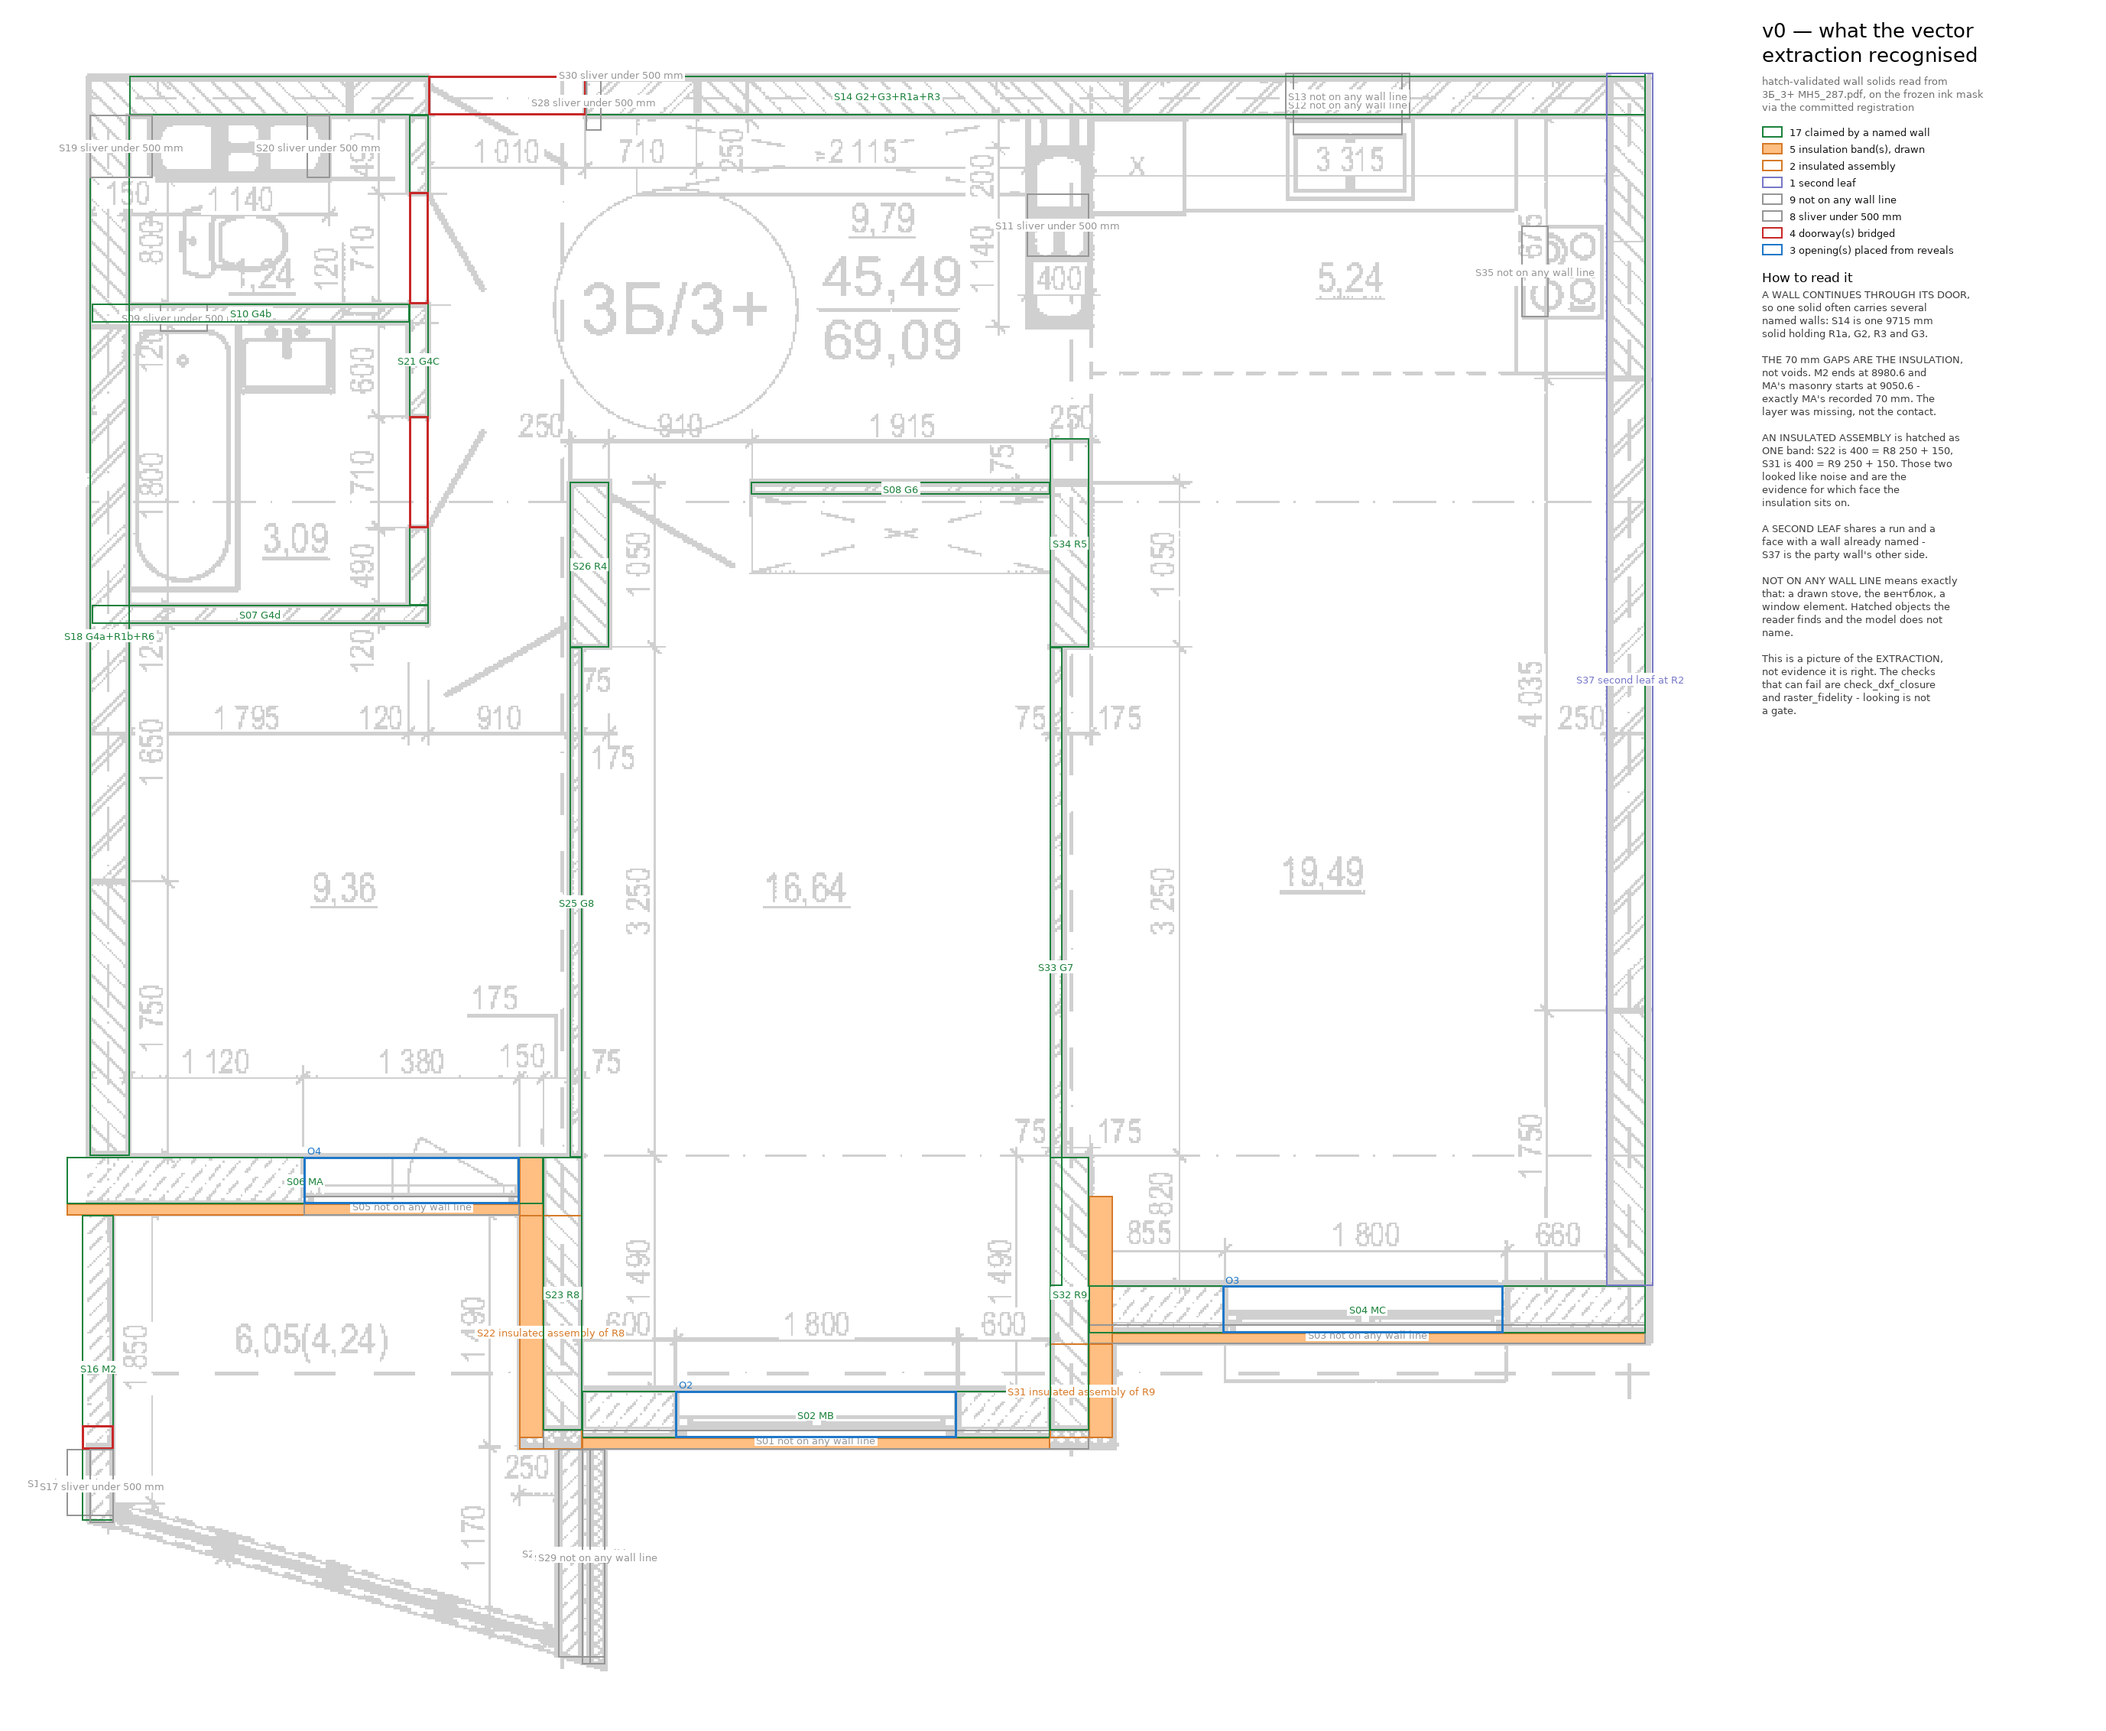
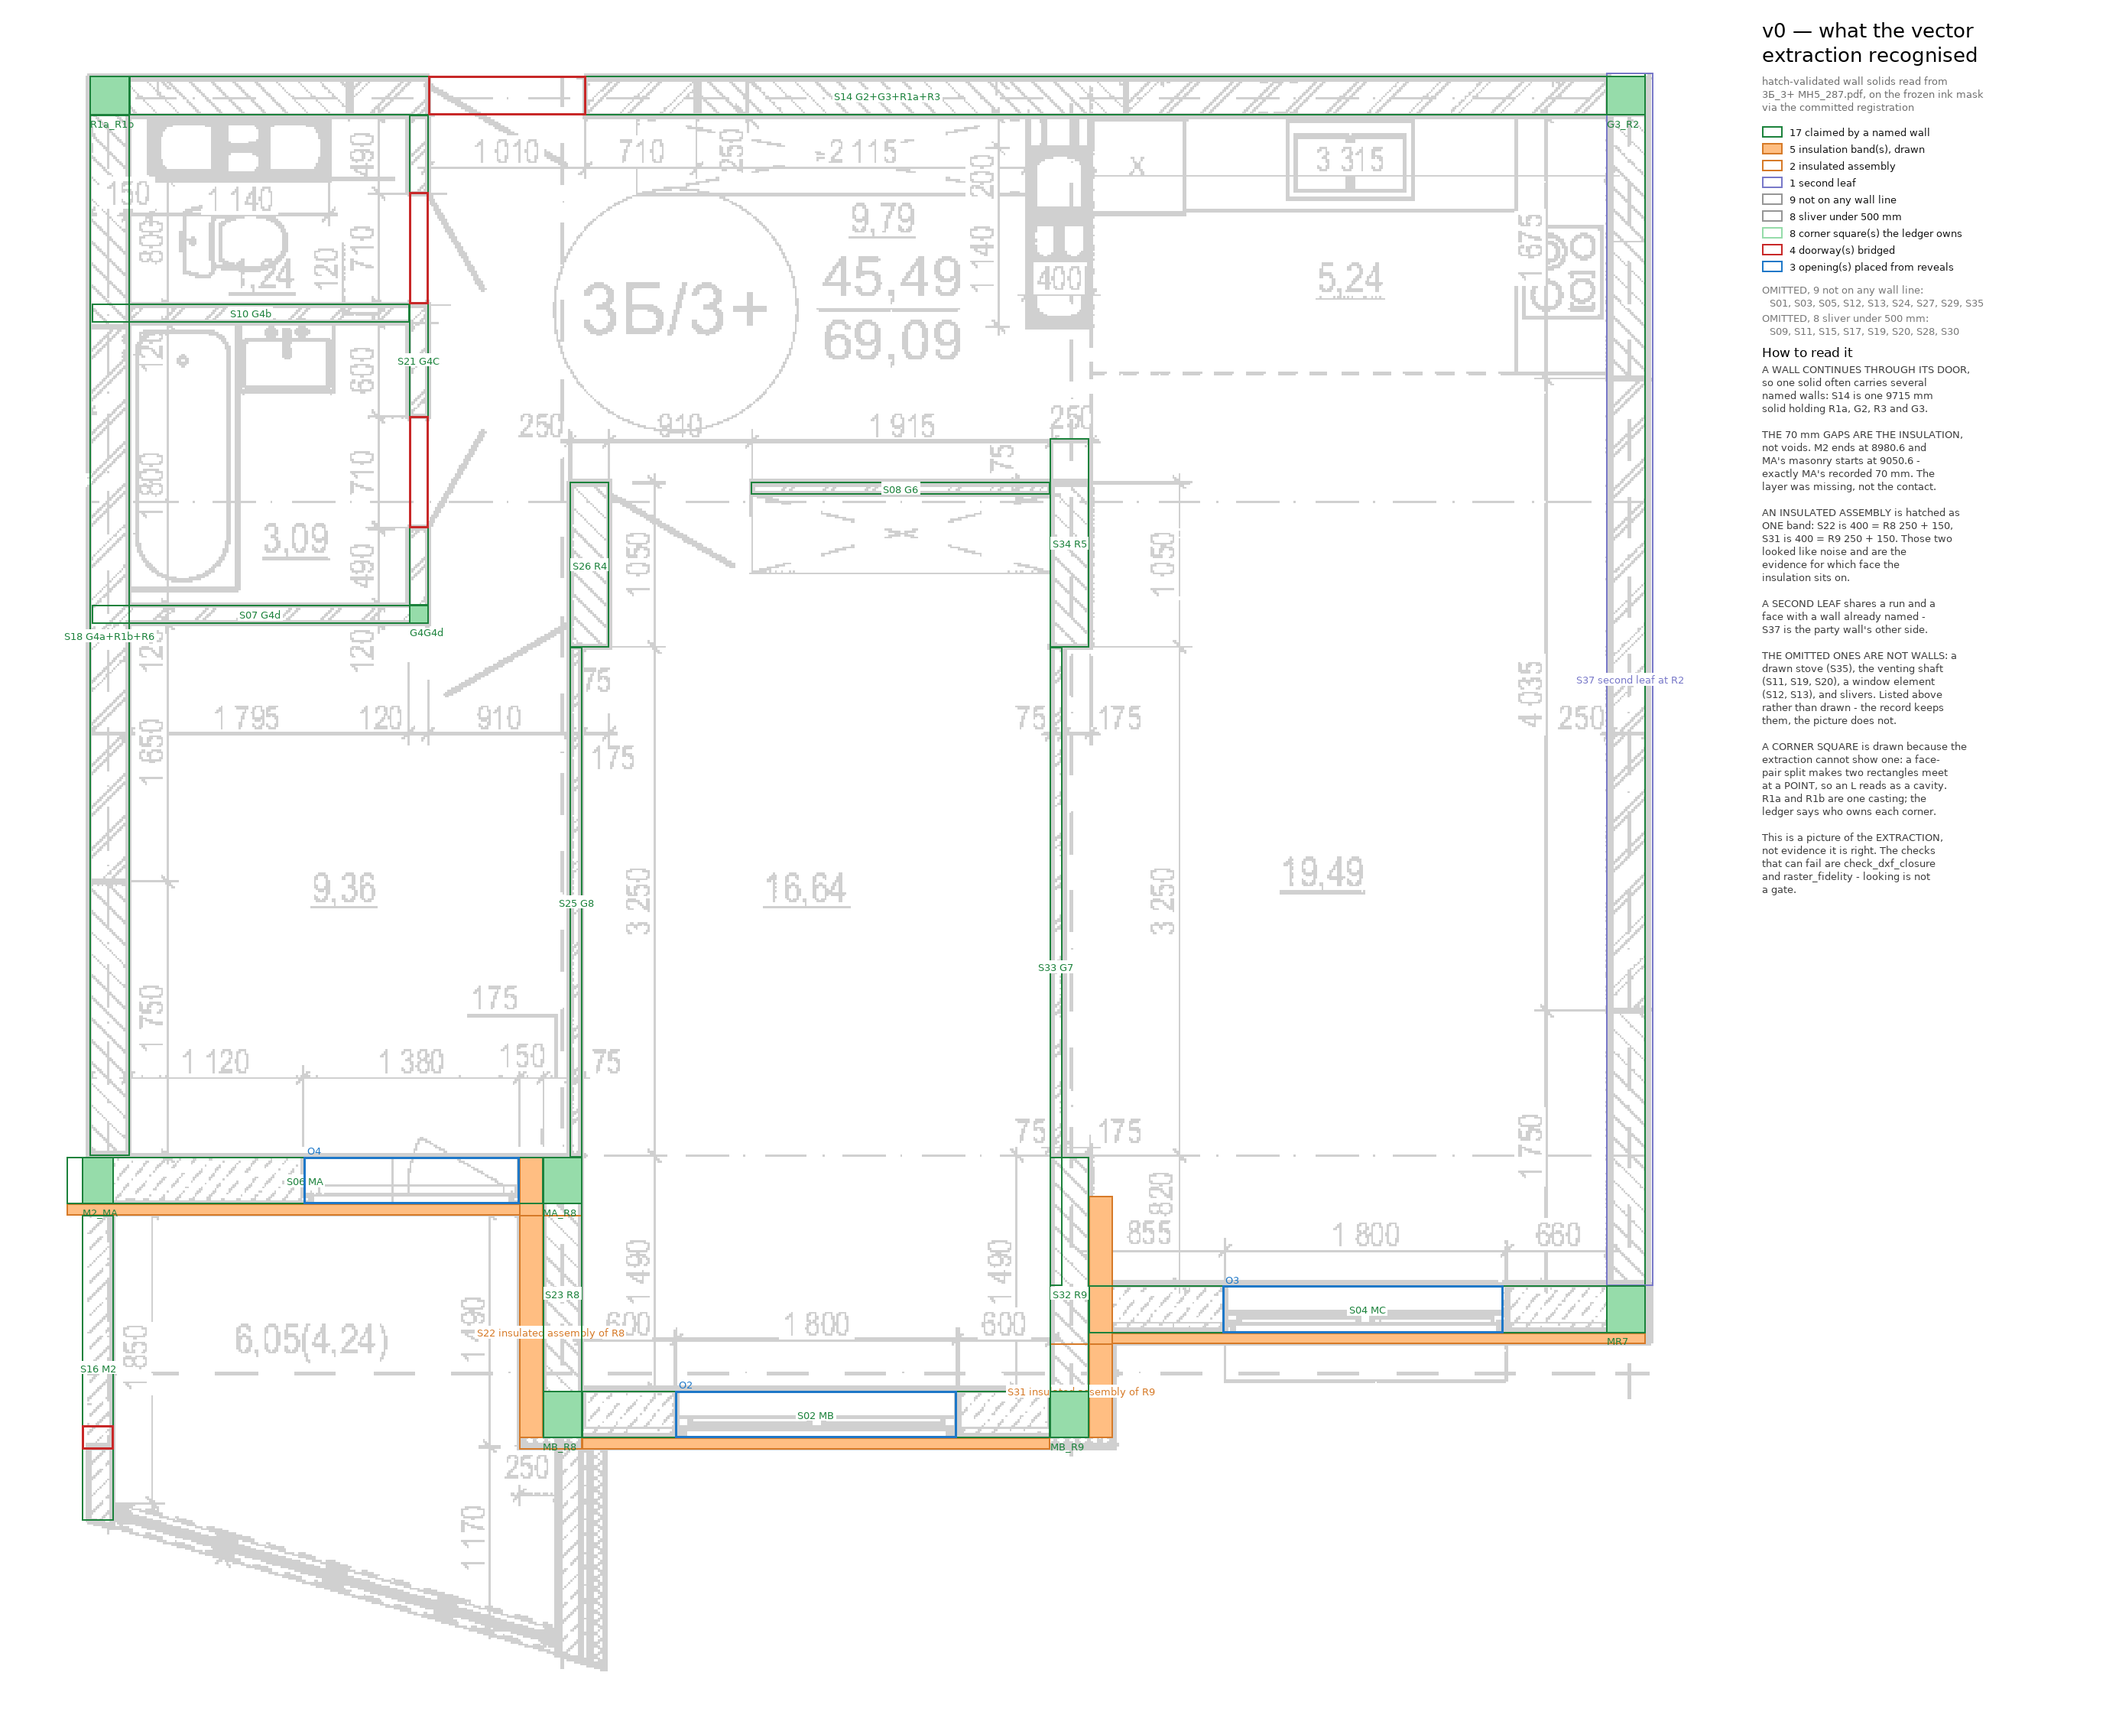
Take the noise out of the extraction render, and draw the corners it cannot show
Owner, second pass over the render, and right on every count.

NOISE OMITTED, NOT RECOLOURED. "Let's remove some noise. S20 nonexistent, S19
nonexistent, S09 nonexistent... S11 is noise, it's a venting shaft... S13 and
S12, not on any wall line, exactly, this is just noise. S35 is noise." Drawing
a stove and the party wall's second leaf at the same weight is what made the
picture unreadable. The 17 solids that are not walls are now omitted from the
drawing and LISTED BY ID in the legend - the record keeps them, the picture
does not carry them.

THE CORNERS THE EXTRACTION CANNOT SHOW. "R1b and R1a should create the angle,
not a cavity... if it's a T-shape connection we need to adjust to touch the
wall. If it's an angle, we need to take into account the thickness of the
adjacent wall and extend one of them to fill the gap in the corner." The render
was hiding this rather than modelling it wrongly: a face-pair extraction splits
an L-shaped hatched region into two rectangles meeting at a POINT - S14's run
starts at 3230.9, S18's ends at 15990.3 - so the corner square belongs to
neither and reads as a cavity. It is not one; R1a and R1b are one monolithic
casting. The eight corner squares wall_corners.csv assigns an owner are now
drawn filled and labelled.

S03 IDENTIFIED, since he asked and did not know either: 120 mm at faces
8160.6..8280.6, hatch 135 degrees, over MC's run. MC's insulation band is
8160.6..8230.6, so S03 is the insulation's own hatched band read 50 mm wide -
[…]

diff --git a/tools/layout/render_vector_extraction.py b/tools/layout/render_vector_extraction.py
@@ -61,6 +61,7 @@ SECOND_LEAF = (120, 120, 200)    # the other face-pair of a wall already claimed
 NOT_A_WALL = (150, 150, 150)     # not on any wall line: a fixture, or a sliver
 OPENING = (200, 40, 40)
 INS_BAND = (255, 190, 130)       # the insulation itself, from place_insulation
+CORNER = (150, 220, 170)         # a corner square the ledger assigns an owner
 
 
 def classify(s, walls, blocks, claimed, bands):
@@ -188,6 +189,7 @@ def main():
                      fill=INS_BAND, outline=INSULATION, width=2)
 
     kinds = {}
+    suppressed = {}
     n_open = 0
     n_claimed = 0
     for s in sorted(solids, key=lambda s: s['solid_id']):
@@ -197,6 +199,17 @@ def main():
         kind, col = classify(s, walls_dxf, blocks, claimed, bands)
         if s['length_mm'] < 500 and not who:
             kind, col = 'sliver under 500 mm', NOT_A_WALL
+        # !! Owner, twice: "let's remove some noise... S20 nonexistent, S19
+        # nonexistent, S09 nonexistent... S11 is noise, it's a venting shaft...
+        # S13 and S12 not on any wall line, exactly, this is just noise. S35 is
+        # noise." He is right that they are not walls, and drawing them at the
+        # same weight as the structure is what made the picture unreadable. They
+        # are OMITTED from the drawing and LISTED in the legend - the record
+        # keeps them, the picture does not carry them.
+        if kind in ('not on any wall line', 'sliver under 500 mm'):
+            suppressed.setdefault(kind, []).append(s['solid_id'])
+            kinds[kind] = kinds.get(kind, 0) + 1
+            continue
         kinds[kind.split(' of ')[0].split(' at ')[0]] =             kinds.get(kind.split(' of ')[0].split(' at ')[0], 0) + 1
         if who:
             n_claimed += 1
@@ -255,6 +268,43 @@ def main():
     else:
         omitted = []
 
+    # --- the corner squares the ledger owns -------------------------------
+    # !! Owner, and he has said it more than once: "R1b and R1a should create the
+    # angle, not a cavity... we should take into account the thickness of the
+    # adjacent wall and either extend one of the walls to fill in the gap in the
+    # corner. If it's a T-shape connection we need to adjust to touch the wall.
+    # If it's an angle, we need to take into account the thickness."
+    #
+    # The EXTRACTION cannot show that, and this render was hiding the fact. A
+    # face-pair extraction splits an L-shaped hatched region into two rectangles
+    # that meet at a POINT: S14's run starts at 3230.9, S18's ends at 15990.3,
+    # so the corner square 2980.8..3230.9 x 15990.2..16240.1 belongs to neither
+    # and reads as a cavity. It is not one - R1a and R1b are one monolithic
+    # casting - and `wall_corners.csv` says which wall owns each corner. Drawing
+    # the owned squares is what makes the angle read as solid.
+    n_corner = 0
+    try:
+        with io.open(os.path.join(REPO, 'data', 'canonical',
+                                  'wall_corners.csv'), encoding='utf-8') as fh:
+            for r in csv.DictReader(fh):
+                A = next((x for x in walls_dxf if x['id'] == r['wall_a']), None)
+                B = next((x for x in walls_dxf if x['id'] == r['wall_b']), None)
+                if not A or not B:
+                    continue
+                H, V = (A, B) if A['axis'] == 'EW' else (B, A)
+                if H['axis'] == V['axis']:
+                    continue
+                a, q = P(V['x0'], H['y0']), P(V['x1'], H['y1'])
+                dr.rectangle([min(a[0], q[0]), min(a[1], q[1]),
+                              max(a[0], q[0]), max(a[1], q[1])],
+                             fill=CORNER, outline=CLAIMED, width=2)
+                t = r['corner_id'].replace('C_', '')
+                dr.text((min(a[0], q[0]), max(a[1], q[1]) + 3), t,
+                        fill=CLAIMED, font=f_s)
+                n_corner += 1
+    except Exception:
+        pass
+
     lx, y = int(w * Z) + 20, 24
     dr.text((lx, y), 'v0 — what the vector', fill=(0, 0, 0), font=f_b)
     y += 32
@@ -274,6 +324,7 @@ def main():
             col = {'insulated assembly': INSULATION,
                    'second leaf': SECOND_LEAF}.get(k, NOT_A_WALL)
             rows.append((col, '%d %s' % (kinds[k], k)))
+    rows.append((CORNER, '%d corner square(s) the ledger owns' % n_corner))
     rows.append((OPENING, '%d doorway(s) bridged' % n_open))
     rows.append(((30, 120, 200), '%d opening(s) placed from reveals'
                  % n_placed_op))
@@ -283,7 +334,18 @@ def main():
                      outline=col if col != INS_BAND else INSULATION, width=2)
         dr.text((lx + 36, y), lab, fill=(20, 20, 20), font=f_s)
         y += 22
-    y += 12
+    y += 8
+    for kind in ('not on any wall line', 'sliver under 500 mm'):
+        ids = suppressed.get(kind) or []
+        if not ids:
+            continue
+        dr.text((lx, y), 'OMITTED, %d %s:' % (len(ids), kind),
+                fill=(120, 120, 120), font=f_s)
+        y += 17
+        dr.text((lx + 10, y), ', '.join(sorted(ids)), fill=(120, 120, 120),
+                font=f_s)
+        y += 20
+    y += 6
     dr.text((lx, y), 'How to read it', fill=(0, 0, 0), font=f_m)
     y += 24
     for line in ('A WALL CONTINUES THROUGH ITS DOOR,',
@@ -308,11 +370,19 @@ def main():
                  "face with a wall already named -",
                  "S37 is the party wall's other side.",
                  '',
-                 'NOT ON ANY WALL LINE means exactly',
-                 'that: a drawn stove, the вентблок, a',
-                 'window element. Hatched objects the',
-                 'reader finds and the model does not',
-                 'name.',
+                 'THE OMITTED ONES ARE NOT WALLS: a',
+                 'drawn stove (S35), the venting shaft',
+                 '(S11, S19, S20), a window element',
+                 '(S12, S13), and slivers. Listed above',
+                 'rather than drawn - the record keeps',
+                 'them, the picture does not.',
+                 '',
+                 'A CORNER SQUARE is drawn because the',
+                 'extraction cannot show one: a face-',
+                 'pair split makes two rectangles meet',
+                 'at a POINT, so an L reads as a cavity.',
+                 'R1a and R1b are one casting; the',
+                 'ledger says who owns each corner.',
                  '',
                  'This is a picture of the EXTRACTION,',
                  'not evidence it is right. The checks',
